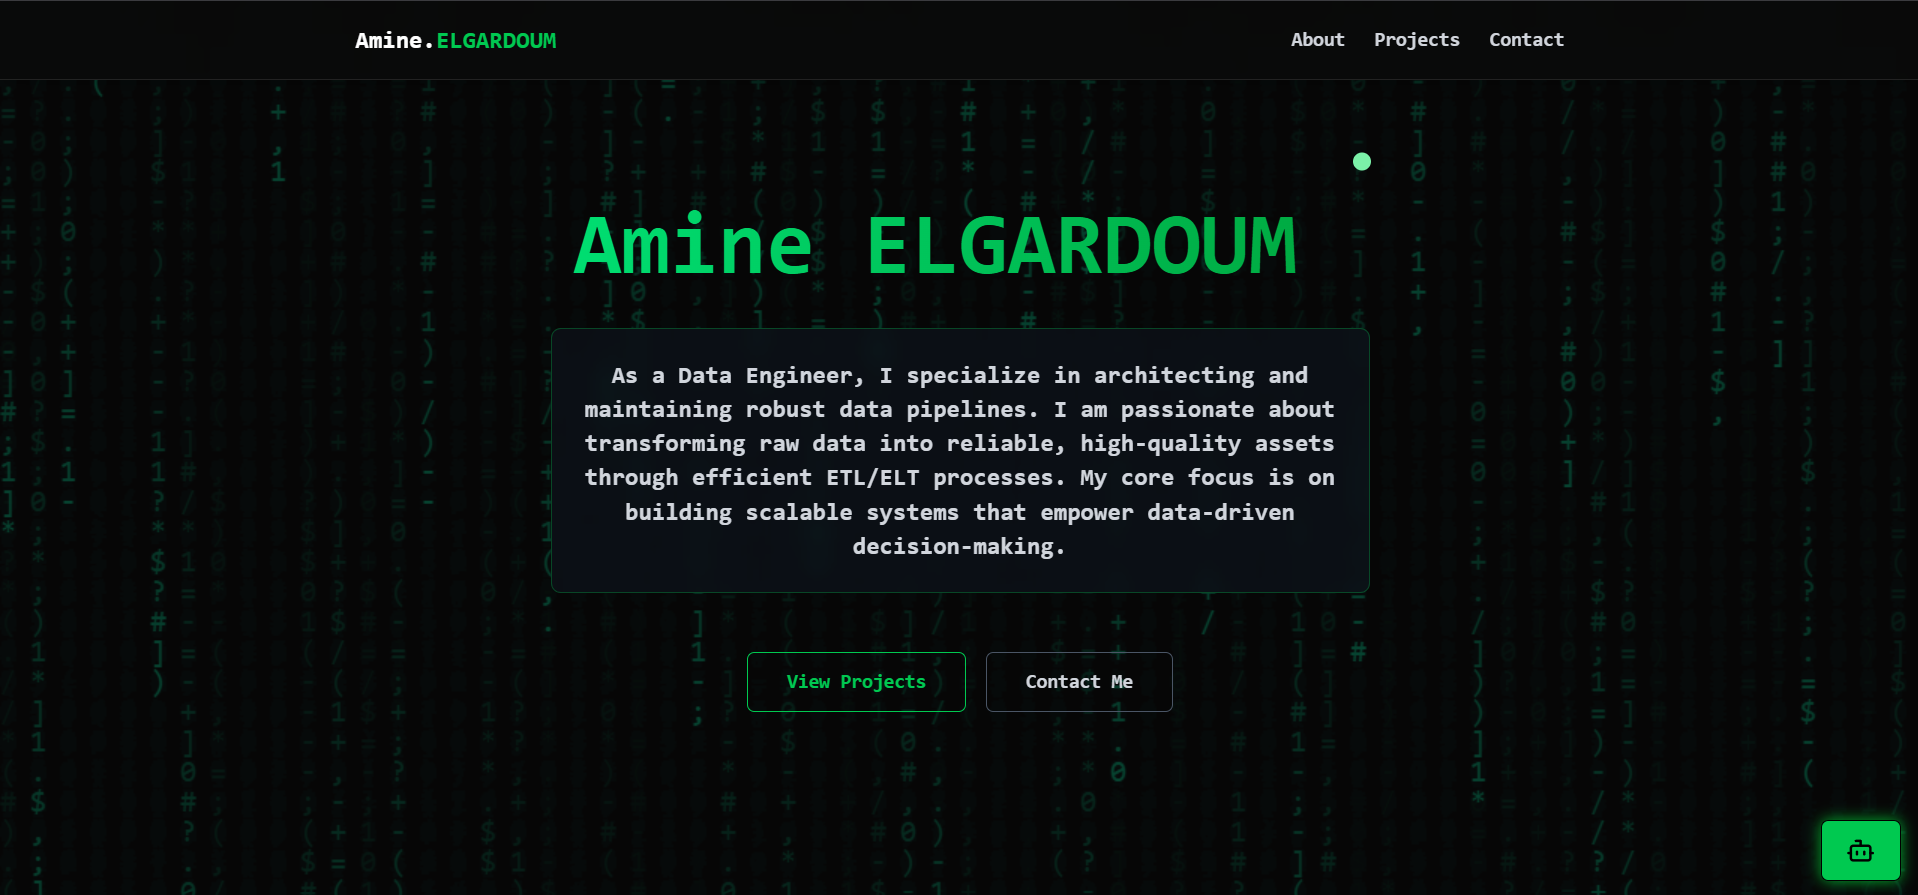
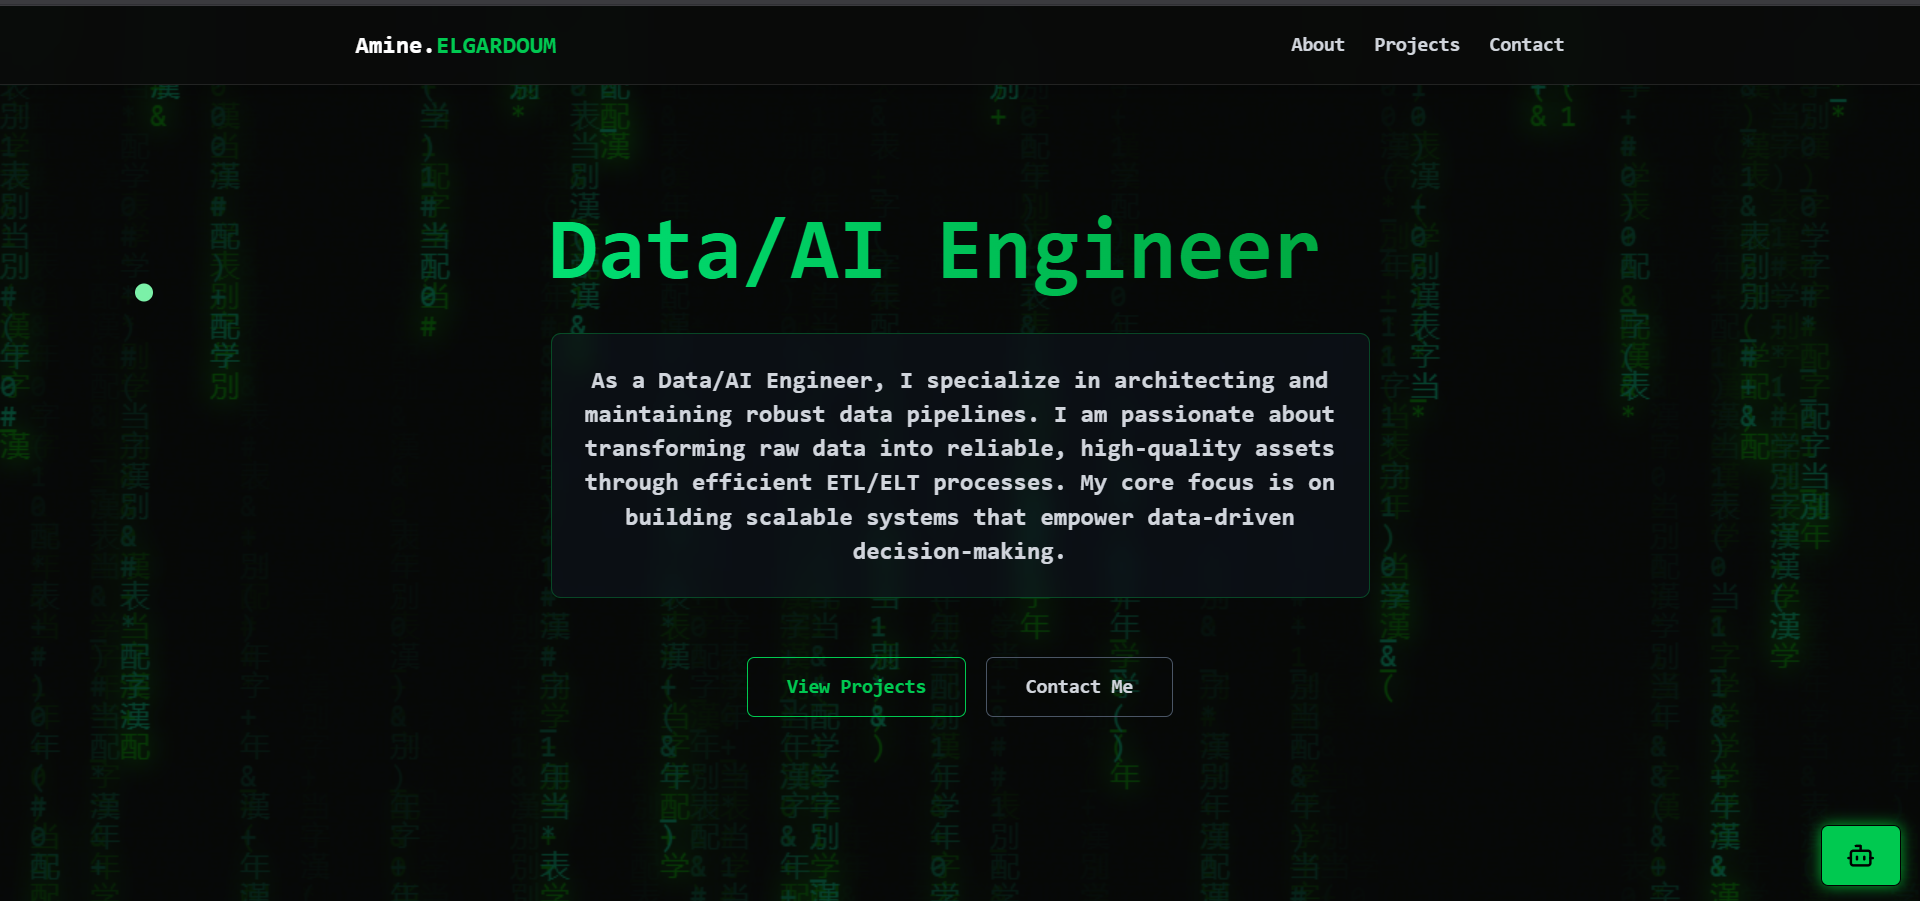
Changes to be committed: 	modified:   chatbot/Dockerfile 	modified:   chatbot/__pycache__/app.cpython-310.pyc 	modified:   chatbot/app.py 	modified:   frontend.png 	modified:   frontend/src/components/LoadingScreen.jsx 	modified:   frontend/src/components/Navbar.jsx 	modified:   frontend/src/compone

diff --git a/frontend/src/components/sections/Home.jsx b/frontend/src/components/sections/Home.jsx
@@ -32,7 +32,7 @@ export const Home = () => {
             className="text-gray-300 text-lg md:text-xl mb-12 max-w-2xl mx-auto 
                        bg-gray-900/40 backdrop-blur-sm p-6 rounded-lg 
                        border border-green-500/30 
-                       transition-all duration-300 hover:border-green-500/60 hover:shadow-[0px_0px_30px_green] hover:-translate-y-3"
+                       transition-all duration-300 hover:border-green-500/60 hover:shadow-[0px_0px_30px_green] hover:-translate-y-2"
           >
             As a Data/AI Engineer, I specialize in architecting and maintaining
             robust data pipelines. I am passionate about transforming raw data
@@ -45,19 +45,23 @@ export const Home = () => {
           <div className="flex flex-col sm:flex-row items-center justify-center gap-4">
             <Link
               to="/projects" // Use anchor link for single-page scrolling
-              className="w-full sm:w-auto border border-green-500 text-green-500 py-3 px-8 rounded-md font-semibold 
+              className="w-full sm:w-auto border border-green-500/100 text-green-500 py-3 px-8 rounded-md font-semibold 
                          transition-all duration-300 ease-in-out
-                         hover:bg-green-500 hover:text-black  hover:shadow-[0px_2px_20px_green]
+                         hover:bg-green-500 hover:text-black  
+                         hover:shadow-[0px_0px_20px_green]
                          hover:-translate-y-1 cursor-none"
             >
               View Projects
             </Link>
             <Link
               to="/contact" // Use anchor link for single-page scrolling
-              className="w-full sm:w-auto border border-gray-600 text-gray-300 py-3 px-8 rounded-md font-semibold
+              className="w-full sm:w-auto border border-gray-600/100 text-gray-300 py-3 px-8 rounded-md font-semibold
                          transition-all duration-300 ease-in-out
-                         hover:border-green-500 hover:text-green-500 
-                         hover:-translate-y-1 cursor-none hover:shadow-[0px_2px_30px_green]"
+                         hover:border-green-500
+                         hover:text-black 
+                         hover:bg-green-400
+                         hover:-translate-y-1
+                        cursor-none hover:shadow-[0px_0px_50px_green]"
             >
               Contact Me
             </Link>

diff --git a/frontend/src/components/sections/Projects.jsx b/frontend/src/components/sections/Projects.jsx
@@ -74,20 +74,19 @@ const ProjectCard = ({ project, getSkillInfo, skillInfo }) => {
                       e.stopPropagation(); // Prevents card click when hiding text
                       setIsDescriptionExpanded(false);
                     }}
-                    className="font-semibold text-green-300 hover:text-green-200 mt-2 cursor-none"
+                    className="font-semibold text-green-300 transition-all ease-in-out duration-200 hover:text-green-200 mt-2 cursor-none"
                   >
                     Show Less
                   </button>
                 </>
               ) : (
-                // --- THIS IS THE CHANGED PART ---
                 <div className="flex items-start">
                   <button
                     onClick={(e) => {
-                      e.stopPropagation(); // Prevents card click when showing text
+                      e.stopPropagation(); 
                       setIsDescriptionExpanded(true);
                     }}
-                    className="cursor-none font-bold text-2xl leading-none text-gray-300 hover:text-white transition-colors"
+                    className="cursor-none font-bold text-2xl leading-none text-gray-300 hover:text-green-500 duration-300 transition-all ease-in-out"
                   >
                     ...
                   </button>
@@ -119,7 +118,7 @@ const ProjectCard = ({ project, getSkillInfo, skillInfo }) => {
               })}
             </div>
             <div>
-              <a href={project.link} target="_blank" rel="noopener noreferrer" className="inline-block cursor-none font-semibold text-green-300 transition-colors hover:text-green-200">
+              <a href={project.link} target="_blank" rel="noopener noreferrer" className="inline-block cursor-none font-semibold text-green-300 transition-all ease-in-out hover:scale-110 hover:text-green-500 hover:-translate-y-1">
                 View Project →
               </a>
             </div>

diff --git a/frontend/src/components/sections/Chatbot.jsx b/frontend/src/components/sections/Chatbot.jsx
@@ -1,5 +1,5 @@
 import { useState, useEffect, useRef } from "react";
-import { HeroText } from "../TypeWriter"; 
+import { HeroText } from "../TypeWriter";
 import { Bot, X } from "lucide-react";
 
 function Chatbot() {
@@ -46,8 +46,7 @@ function Chatbot() {
 
     try {
       const encodedQuery = encodeURIComponent(currentInput);
-      const apiUrl = "http://0.0.0.0:8000";
-      const url = `${apiUrl}/ask?query=${encodedQuery}`;
+      const url = `/api/ask?query=${encodedQuery}`;
       const response = await fetch(url);
 
       if (!response.ok) {
@@ -79,8 +78,9 @@ function Chatbot() {
         className={`fixed bottom-4 right-4 z-50 flex items-center justify-center
                    bg-green-500 text-black rounded-full border border-black 
                    p-3 md:py-3 md:px-5 md:rounded-md
-                   shadow-[0_0_10px_rgba(0,255,65,0.7)]
-                   hover:bg-black hover:text-green-500 hover:shadow-[0_0_15px_rgba(0,255,65,1)]
+                   shadow-[0_0_20px_rgba(0,255,65,0.7)]
+                   ease-in-out
+                   hover:bg-black hover:text-green-500 hover:shadow-[0_0_20px_rgba(0,255,65,1)]
                    transition-all duration-300 cursor-none transform hover:scale-105
                    ${isChatOpen ? "hidden md:flex" : "flex"}`}
       >
@@ -101,7 +101,6 @@ function Chatbot() {
           }`}
       >
         <div className="font-mono bg-black/95 text-green-400 flex flex-col w-full h-full max-h-full border border-green-500 shadow-[0_0_15px_rgba(0,255,65,0.4),0_0_5px_rgba(0,255,65,1)_inset] border-rounded md:rounded-lg">
-          
           <div className="bg-green-500 text-black border-rounded p-3 text-center uppercase tracking-widest border-b border-green-500/50 select-none flex-shrink-0">
             <div className="flex justify-between items-center">
               <h1 className="text-lg font-bold [text-shadow:0_0_3px_rgba(0,0,0,0.5)] mx-auto">

diff --git a/frontend/src/components/sections/About.jsx b/frontend/src/components/sections/About.jsx
@@ -247,7 +247,7 @@ export const About = () => {
                           className="group relative flex flex-col items-center"
                         >
                           <div
-                            className={`text-3xl text-gray-300  group-hover:scale-110 ${hoverColor} transition-all duration-300 ease-in-out group-hover:-translate-y-1`}
+                            className={`text-3xl text-gray-300  group-hover:scale-110 ${hoverColor} transition-all duration-300 ease-in-out group-hover:-translate-y-1 group-hover:drop-shadow-[0px_0px_30px_green]`}
                           >
                             {icon}
                           </div>
@@ -275,7 +275,7 @@ export const About = () => {
                           className="group relative flex flex-col items-center"
                         >
                           <div
-                            className={`text-3xl text-gray-300 transition-all ease-in-out duration-300 group-hover:scale-110 group-hover:-translate-y-1 ${hoverColor}`}
+                            className={`text-3xl text-gray-300 transition-all ease-in-out duration-300 group-hover:scale-110 group-hover:-translate-y-1 group-hover:drop-shadow-[0px_0px_20px_green] ${hoverColor}`}
                           >
                             {icon}
                           </div>

diff --git a/frontend/src/components/Navbar.jsx b/frontend/src/components/Navbar.jsx
@@ -11,7 +11,7 @@ export const Navbar = ({ menuOpen, setMenuOpen }) => {
       <div className="max-w-5xl mx-auto px-4">
         <div className="flex justify-between items-center h-16">
           <Link className="font-mono text-xl font-bold text-white cursor-none hover:-translate-y-1 transition-all hover:scale-110 ease-in-out duration-300 "  to="/home">
-            Amine.<span className="text-green-500">ELGARDOUM</span>
+            <span className="text-white hover:text-green-500 transition-all ease-in-out duration-300">Amine.</span><span className="text-green-400 hover:text-green-800 transition-all ease-in-out duration-300">ELGARDOUM</span>
           </Link>
           
           <a

diff --git a/frontend/src/components/sections/Footer.jsx b/frontend/src/components/sections/Footer.jsx
@@ -37,9 +37,9 @@ export const Footer = () => {
                 aria-label={`Link to my ${social.name} profile`}
                 className="text-green-400 text-3xl cursor-none
                           transition-all duration-300 ease-in-out
-                          hover:text-green-300 
-                          hover:scale-110
-                          hover:drop-shadow-[0_0_8px_rgba(52,211,153,0.7)] 
+                          hover:text-green-100 
+                          hover:scale-120
+                          hover:drop-shadow-[0_0_10px_rgba(52,211,153,0.7)] 
                           hover:-translate-y-2"
               >
                 {social.icon}

diff --git a/frontend/src/components/LoadingScreen.jsx b/frontend/src/components/LoadingScreen.jsx
@@ -2,7 +2,7 @@ import { useEffect, useState, useRef } from "react";
 
 export const LoadingScreen = ({ onComplete }) => {
   const [text, setText] = useState("");
-  const fullText = "<Data Engineering/>";
+  const fullText = "<Data Engineer />";
   const index = useRef(0);
 
   useEffect(() => {

diff --git a/chatbot/app.py b/chatbot/app.py
@@ -11,15 +11,15 @@ from fastapi.middleware.cors import CORSMiddleware
 import uvicorn
 app=FastAPI(title="RAG API")
 origins=[
-    "https://portfolio-s-amine.netlify.app/"
-    "http://localhost:5173",
+    "https://portfolio-s-amine.netlify.app/",
+    "http://localhost:5173/",
     "http://localhost:3000",
 ]
 app.add_middleware(
     CORSMiddleware,
     allow_origins=origins,
     allow_methods=["*"],
-    allow_headers=["*"]
+    allow_headers=["*"],
 )
 print("Loading the embedding model...")
 embedding=HuggingFaceEmbeddings(model_name="all-MiniLM-L6-v2")
@@ -95,4 +95,4 @@ async def message(query:str):
         print("there is an error",e)
     
 if __name__=="__main__":
-    uvicorn.run("app:app",host="0.0.0.0",port=8000,reload=True)
+    uvicorn.run("app:app",host="127.0.0.1",port=8000,reload=True)
